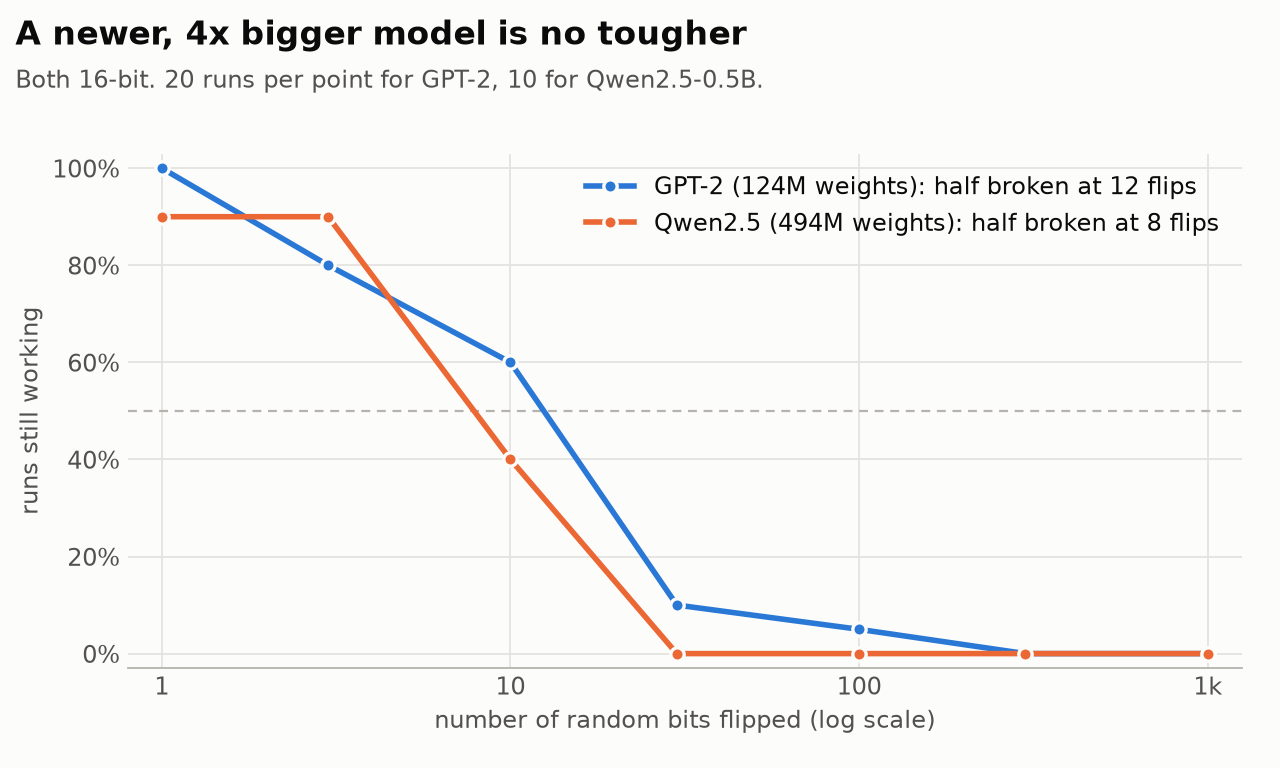
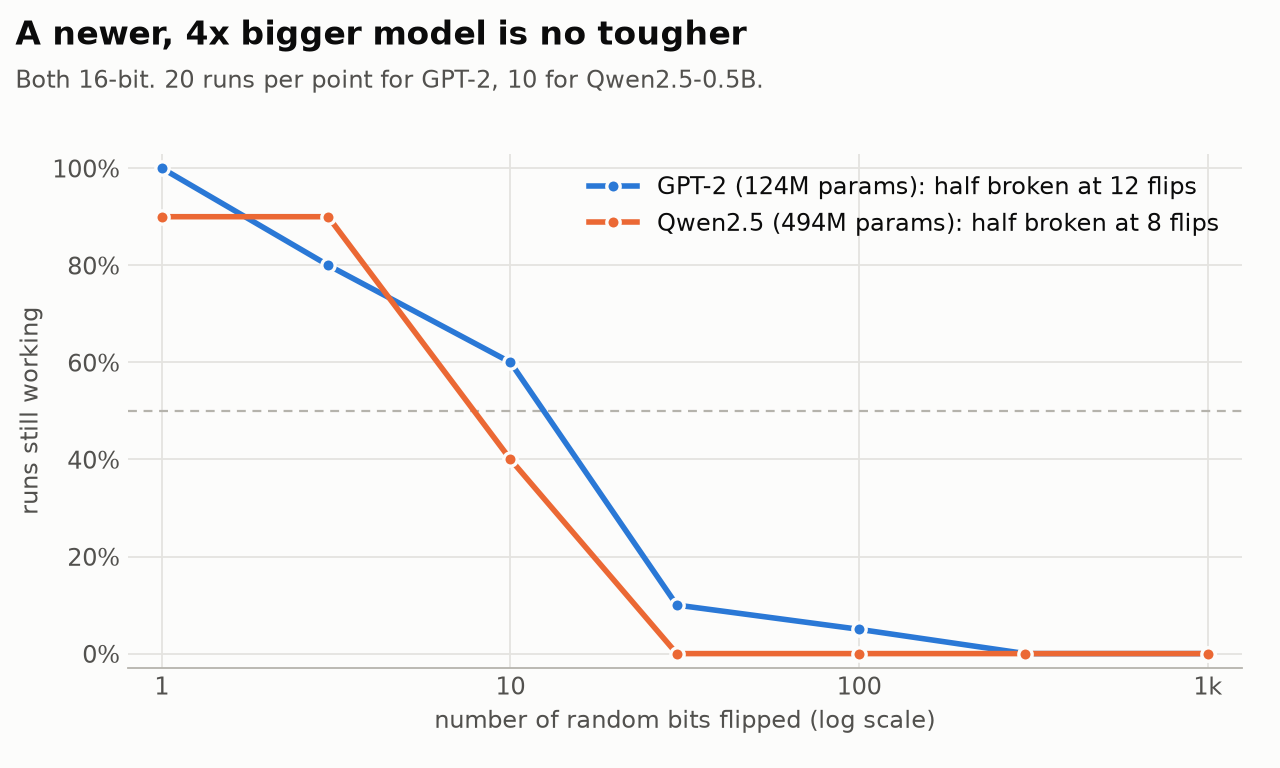
README: use standard terminology, define perplexity formally

Changed region(s): [[0.4688, 0.2188, 0.75, 0.3125]]

diff --git a/cosmic_gpt/plots.py b/cosmic_gpt/plots.py
@@ -90,7 +90,7 @@ def plot1(s1):
               for d, lbl in [("fp32", "32-bit"), ("fp16", "16-bit"), ("bf16", "16-bit")]]
     working_lines(ax, series, 1000)
     titled(fig, "A dozen random bit flips break GPT-2",
-           "Out of 2-4 billion bits of weights. 20 runs per point; every run with 300+ flips broke.")
+           "Out of 2-4 billion parameter bits. 20 runs per point; every run with 300+ flips broke.")
     save(fig, "survival_vs_flips.png")
 
 
@@ -167,8 +167,8 @@ def plot4(s1, s4):
 def plot5(s1, s5):
     gpt = s1[s1.dtype == "fp16"]
     fig, ax = line_figure()
-    working_lines(ax, [(f"GPT-2 (124M weights): half broken at {n50(gpt):.0f} flips", gpt),
-                       (f"Qwen2.5 (494M weights): half broken at {n50(s5):.0f} flips", s5)], 1000)
+    working_lines(ax, [(f"GPT-2 (124M params): half broken at {n50(gpt):.0f} flips", gpt),
+                       (f"Qwen2.5 (494M params): half broken at {n50(s5):.0f} flips", s5)], 1000)
     titled(fig, "A newer, 4x bigger model is no tougher",
            "Both 16-bit. 20 runs per point for GPT-2, 10 for Qwen2.5-0.5B.")
     save(fig, "modern_model.png")

diff --git a/README.md b/README.md
@@ -1,22 +1,26 @@
 # How many cosmic rays can GPT-2 survive?
 
-Computer memory gets hit by cosmic rays. Occasionally one flips a single bit, a 0 becomes a 1 or the reverse. An AI model is billions of numbers stored in memory, so what happens to it when bits start flipping?
+Cosmic rays striking memory chips occasionally flip a single bit. A language model is just its parameters sitting in memory, so how many of those flips can it take?
 
-I flipped random bits in GPT-2's weights (the 124-million numbers that make up the model) and checked whether it could still write normal text. In total that's 2,580 runs.
+I flipped uniformly random bits in the parameters of GPT-2 (124M) and measured whether the model still worked: 2,580 runs in total across six experiments.
 
 ## What "broken" means
 
-Here is GPT-2 finishing the sentence *"The Eiffel Tower is located in"*:
+Every run is scored by perplexity on a fixed held-out text, the first 4,096 tokens of the WikiText-2 test set:
 
-| | output |
-|---|---|
-| **Normal** | the heart of the city, and is the only place in the world where you can see the Eiffel Tower. |
-| **After 3 random flips** | heated heated heated heated heated heated heated heated heated heated heated heated … |
-| **After 3 random flips** (another run) | the heart 124 124 124 124 124 124 124 124 124 124 124 124 … |
-| **After 10 random flips** | Bane Bane Bane Bane Baneacheacheache Bane Bane Bane Bane … |
-| **After 10 random flips** (a lucky run) | the heart of the city, and is the only place in the world where you can see the Eiffel Tower. |
+$$\text{PPL} = \exp\left(-\frac{1}{N}\sum_{i=1}^{N}\log p_\theta(x_i \mid x_{<i})\right)$$
 
-The model either keeps working as if nothing happened or turns into garbage; there is almost no in-between. To decide automatically, every run is scored on a few pages of Wikipedia text by how well the model predicts each next word. A run counts as **broken** if it predicts at least 2× worse than the normal model. In practice, 98.6% of runs were either within 10% of normal or more than 10× worse, so the exact cutoff barely matters.
+where $p_\theta(x_i \mid x_{<i})$ is the probability the model assigns to the true next token. Lower is better; clean GPT-2 scores 28.2. A run counts as **broken** if its perplexity is more than 2× the clean model's, or if its logits contain NaN or Inf.
+
+The 2× threshold barely matters, because damage is almost all-or-nothing. 98.6% of runs ended either within 10% of the clean perplexity or more than 10× above it. Here is what the two outcomes look like, with GPT-2 completing *"The Eiffel Tower is located in"* (greedy decoding):
+
+| run | perplexity | output |
+|---|---|---|
+| clean | 28.2 | the heart of the city, and is the only place in the world where you can see the Eiffel Tower. |
+| 10 flips, still working | 28.2 | the heart of the city, and is the only place in the world where you can see the Eiffel Tower. |
+| 3 flips, broken | ∞ | heated heated heated heated heated heated heated heated heated heated heated heated … |
+| 3 flips, broken | ∞ | the heart 124 124 124 124 124 124 124 124 124 124 124 124 … |
+| 10 flips, broken | 1.7 × 10⁸ | Bane Bane Bane Bane Baneacheacheache Bane Bane Bane Bane … |
 
 ## Results
 
@@ -24,49 +28,49 @@ The model either keeps working as if nothing happened or turns into garbage; the
 
 ![A dozen random bit flips break GPT-2](charts/survival_vs_flips.png)
 
-GPT-2 stored in 16 bits per number has about 2 billion bits. Flipping just **12 random ones breaks it half the time**, and 300 always do. Storing it in 32 bits per number barely helps (22 flips).
+In fp16, GPT-2's parameters take up about 2 billion bits. **Twelve random flips break it half the time**, and 300 flips broke every run. fp32 doubles the bit count but only raises the median to 22 flips.
 
 ### 2. It's almost all one bit
 
 ![It's almost all one bit](charts/bit_lethality.png)
 
-Each number is stored like scientific notation: a sign, an **exponent** (the "×10ⁿ" part), and a **fraction** (the digits). Flipping a fraction bit nudges a number slightly, and the model doesn't care. Flipping the top exponent bit turns a typical weight like **0.02 into 1,311**. In 32-bit storage it turns into 6.8 × 10³⁶. One such number is enough to drown out everything else, so a single flip of that bit breaks GPT-2 **82% of the time**. A random flip lands on it 1 time in 16, which is why a dozen random flips is the typical breaking point.
+An fp16 number is 1 sign bit, 5 exponent bits and 10 mantissa (fraction) bits, with value $(-1)^s \times 2^{e-15} \times 1.m$. Mantissa flips change a parameter by a small relative amount, and the model tolerates them completely. Flipping the top exponent bit multiplies the value by $2^{16}$, turning a typical parameter like **0.02 into 1,311** (in fp32, the equivalent flip gives 6.8 × 10³⁶). One such outlier propagates through every later layer, so **a single flip of that bit breaks GPT-2 82% of the time**. A uniformly random flip hits that bit with probability 1/16, which is why about a dozen random flips is the typical breaking point.
 
 ### 3. Small parts are just as deadly
 
 ![Small parts of the model are just as deadly](charts/group_survival.png)
 
-LayerNorm (small scaling layers between the main blocks) is only 0.03% of the model, yet it breaks after about as many flips as the big parts. A flip that lands there is, bit for bit, about 1,000× more damaging.
+LayerNorm parameters are 0.03% of the model, yet flips confined to them break it about as quickly as flips confined to attention, the MLPs or the embeddings. Per bit, LayerNorm is roughly 1,000× more fragile.
 
 ### 4. A cheap fix makes it about 100× tougher
 
 ![A cheap fix makes it ~100x tougher](charts/clamp.png)
 
-Since the damage comes from numbers becoming absurdly large, the fix is to remember each layer's smallest and largest weight and clamp anything outside that range back in. On exactly the same flips, it now takes **1,390 flips instead of 12** to break half the runs, and nearly every run survives 100 flips.
+The damage comes from parameters becoming huge, so the mitigation is to store each tensor's clean min and max and clamp every parameter back into that range (NaNs become 0). On identical flips, the median breaking point moves from **12 to 1,390 flips**, and nearly every run survives 100 flips.
 
 ### 5. A newer, bigger model is no tougher
 
 ![A newer, 4x bigger model is no tougher](charts/modern_model.png)
 
-Qwen2.5-0.5B, a 2024 model 4× the size of GPT-2, breaks after about 8 flips. Because it has 4× as many bits, random flips are also 4× more likely to happen to it.
+Qwen2.5-0.5B (494M parameters, 2024) breaks after about 8 flips. It also has 4× as many bits exposed, so at a given error rate it accumulates flips 4× faster.
 
 ## How long would it last?
 
-How often bits flip depends on altitude, since the atmosphere shields us from cosmic rays, and on the memory chip. Published numbers for memory chips at sea level range from about 0.56 to 1,000 errors per billion hours per megabit. The low end is modern hardware and the high end is older. These estimates assume ordinary memory without error correction (ECC), the kind most laptops and phones use. Servers usually have ECC, which fixes single flipped bits.
+Soft-error rates depend on altitude (the atmosphere absorbs most of the neutron flux) and on the memory technology. Published sea-level rates for DRAM range from about 0.56 to 1,000 FIT/Mbit (failures per 10⁹ device-hours per megabit), with modern hardware at the low end. The estimates below assume memory without ECC, as in most laptops and phones. Server memory typically has ECC, which corrects single-bit errors.
 
-Time until 16-bit GPT-2 has a 50% chance of being broken:
+Time until fp16 GPT-2 has a 50% chance of being broken:
 
-| where | modern memory | older memory |
+| environment | modern DRAM (0.56 FIT/Mbit) | older DRAM (1,000 FIT/Mbit) |
 |---|---|---|
 | Sea level | ~1,300 years | ~9 months |
-| Denver (3.5× more cosmic rays) | ~380 years | ~2.5 months |
-| Airplane at 40,000 ft (300×) | ~4.5 years | ~1 day |
-| Low Earth orbit | 1.5 hours to 9 minutes | (same) |
+| Denver (3.5× flux) | ~380 years | ~2.5 months |
+| Airliner at 40,000 ft (300× flux) | ~4.5 years | ~1 day |
+| Low Earth orbit | 9 minutes to 1.5 hours | (same) |
 
-In orbit there's no atmosphere at all, and published rates are 0.1 to 1 flipped bit per million per day. At that rate GPT-2 breaks within hours.
+Orbit is a different radiation environment, so it uses a measured per-bit rate instead of a flux multiplier: 10⁻⁷ to 10⁻⁶ upsets per bit per day, which means hundreds to thousands of flips per day across GPT-2's parameters.
 
 Sources:
-- Error rate of modern memory (0.56): Li, Shen, Huang & Chu, ["A Memory Soft Error Measurement on Production Systems"](https://sites.rochester.edu/michaelhuang/wp-content/uploads/2023/03/usenix07.pdf), USENIX ATC 2007. The 1,000 figure is within the 200–5,000 range of older lab studies that this paper summarizes.
+- Modern DRAM (0.56 FIT/Mbit): Li, Shen, Huang & Chu, ["A Memory Soft Error Measurement on Production Systems"](https://sites.rochester.edu/michaelhuang/wp-content/uploads/2023/03/usenix07.pdf), USENIX ATC 2007. The 1,000 FIT/Mbit figure is within the 200–5,000 range of older lab studies that this paper summarizes.
 - Denver: Actel, ["Effects of Neutrons on Programmable Logic"](https://ww1.microchip.com/downloads/aemDocuments/documents/FPGA/ProductDocuments/SupportingCollateral/serwp.pdf), 2002 ("more than three times higher in Denver than it is in New York").
 - 40,000 ft: S. Wiley, ["NASA Aviation Activities and Space Weather"](https://ccmc.gsfc.nasa.gov/publicData/SWxWorkshops/2014/Wiley_aviationactivities.pdf), NASA GSFC, 2014 ("FL400 is 300X > neutron flux @ sea level").
 - Orbit: Wang et al., ["A Case for Application-Aware Space Radiation Tolerance in Orbital Computing"](https://arxiv.org/abs/2407.11853), 2024.
@@ -97,13 +101,13 @@ uv run pytest                            # tests
 | 5 | Qwen2.5-0.5B, fp16 | 10 per point |
 | 6 | a single flip of the top exponent bit | 50 per format |
 
-**Model and data.** HF `gpt2` on Apple MPS. The eval text is the first 4,096 GPT-2 tokens of WikiText-2-raw (test split), as four 1,024-token windows. "Predicts N× worse" means perplexity relative to the clean model: 28.2 for fp32/fp16, 28.3 for bf16, and 14.3 for Qwen2.5-0.5B. A run is broken if perplexity > 2× clean or the logits contain NaN/Inf.
+**Model and data.** HF `gpt2` on Apple MPS. The eval text is the first 4,096 GPT-2 tokens of WikiText-2-raw (test split), as four non-overlapping 1,024-token windows, so N = 4,092 predicted tokens. Log-probabilities are computed in fp32. Clean perplexity is 28.2 for fp32/fp16, 28.3 for bf16 and 14.3 for Qwen2.5-0.5B; each format is compared against its own clean value.
 
-**Flipping.** Bits are chosen uniformly, without replacement, across every parameter, including biases and LayerNorm gains. GPT-2's input and output embeddings share memory, so they count once. Each trial restores the clean weights first. Every trial has its own random seed and its exact flip list is saved in `results/flips/`. Lists over 1,000 flips are left out of the repo for size, and `uv run python -m cosmic_gpt.sweeps --replay <trial_id>` regenerates any trial exactly. Experiment 4 uses the same seeds as experiment 1, so both lines in chart 4 see identical flips.
+**Flipping.** Bits are chosen uniformly, without replacement, across all parameter bits, including biases and LayerNorm gains. GPT-2's input and output embeddings share memory, so they count once. Each trial restores the clean parameters first. Every trial has its own random seed and its exact flip list is saved in `results/flips/`. Lists over 1,000 flips are left out of the repo for size, and `uv run python -m cosmic_gpt.sweeps --replay <trial_id>` regenerates any trial exactly. Experiment 4 uses the same seeds as experiment 1, so both lines in chart 4 see identical flips.
 
 **Clamping.** After the flips, NaNs become 0 and each tensor is clamped to its clean min and max. This assumes those two numbers per tensor are kept somewhere safe.
 
-**Time to break.** flips/hour = errors per billion hours per Mbit × Mbit of weights × altitude multiplier ÷ 10⁹. Multipliers are relative to New York at sea level (the JESD89A reference). Only the weights count as exposed memory. The table above uses the measured median from experiment 1 (12 flips for fp16). `cosmic.py` also prints a mean estimate built from experiments 2 and 6 (19 flips), which agrees: for a random process with that per-flip risk, the median is about 13.
+**Time to break.** flips/hour = FIT/Mbit × Mbit of parameters × flux multiplier ÷ 10⁹. Multipliers are relative to New York at sea level (the JESD89A reference). Only the parameters count as exposed memory, not activations or the KV cache. The table above uses the measured median from experiment 1 (12 flips for fp16). `cosmic.py` also prints a mean estimate built from experiments 2 and 6 (19 flips), which agrees: a geometric distribution with that per-flip risk has a median of ln 2 / p ≈ 13.
 
 **Code.** `inject.py` (bit flipping, restore, clamp), `model.py` (loading, perplexity), `sweeps.py` (experiments), `plots.py` (charts), `cosmic.py` (time-to-break table), `tests/` (flip correctness).
 
